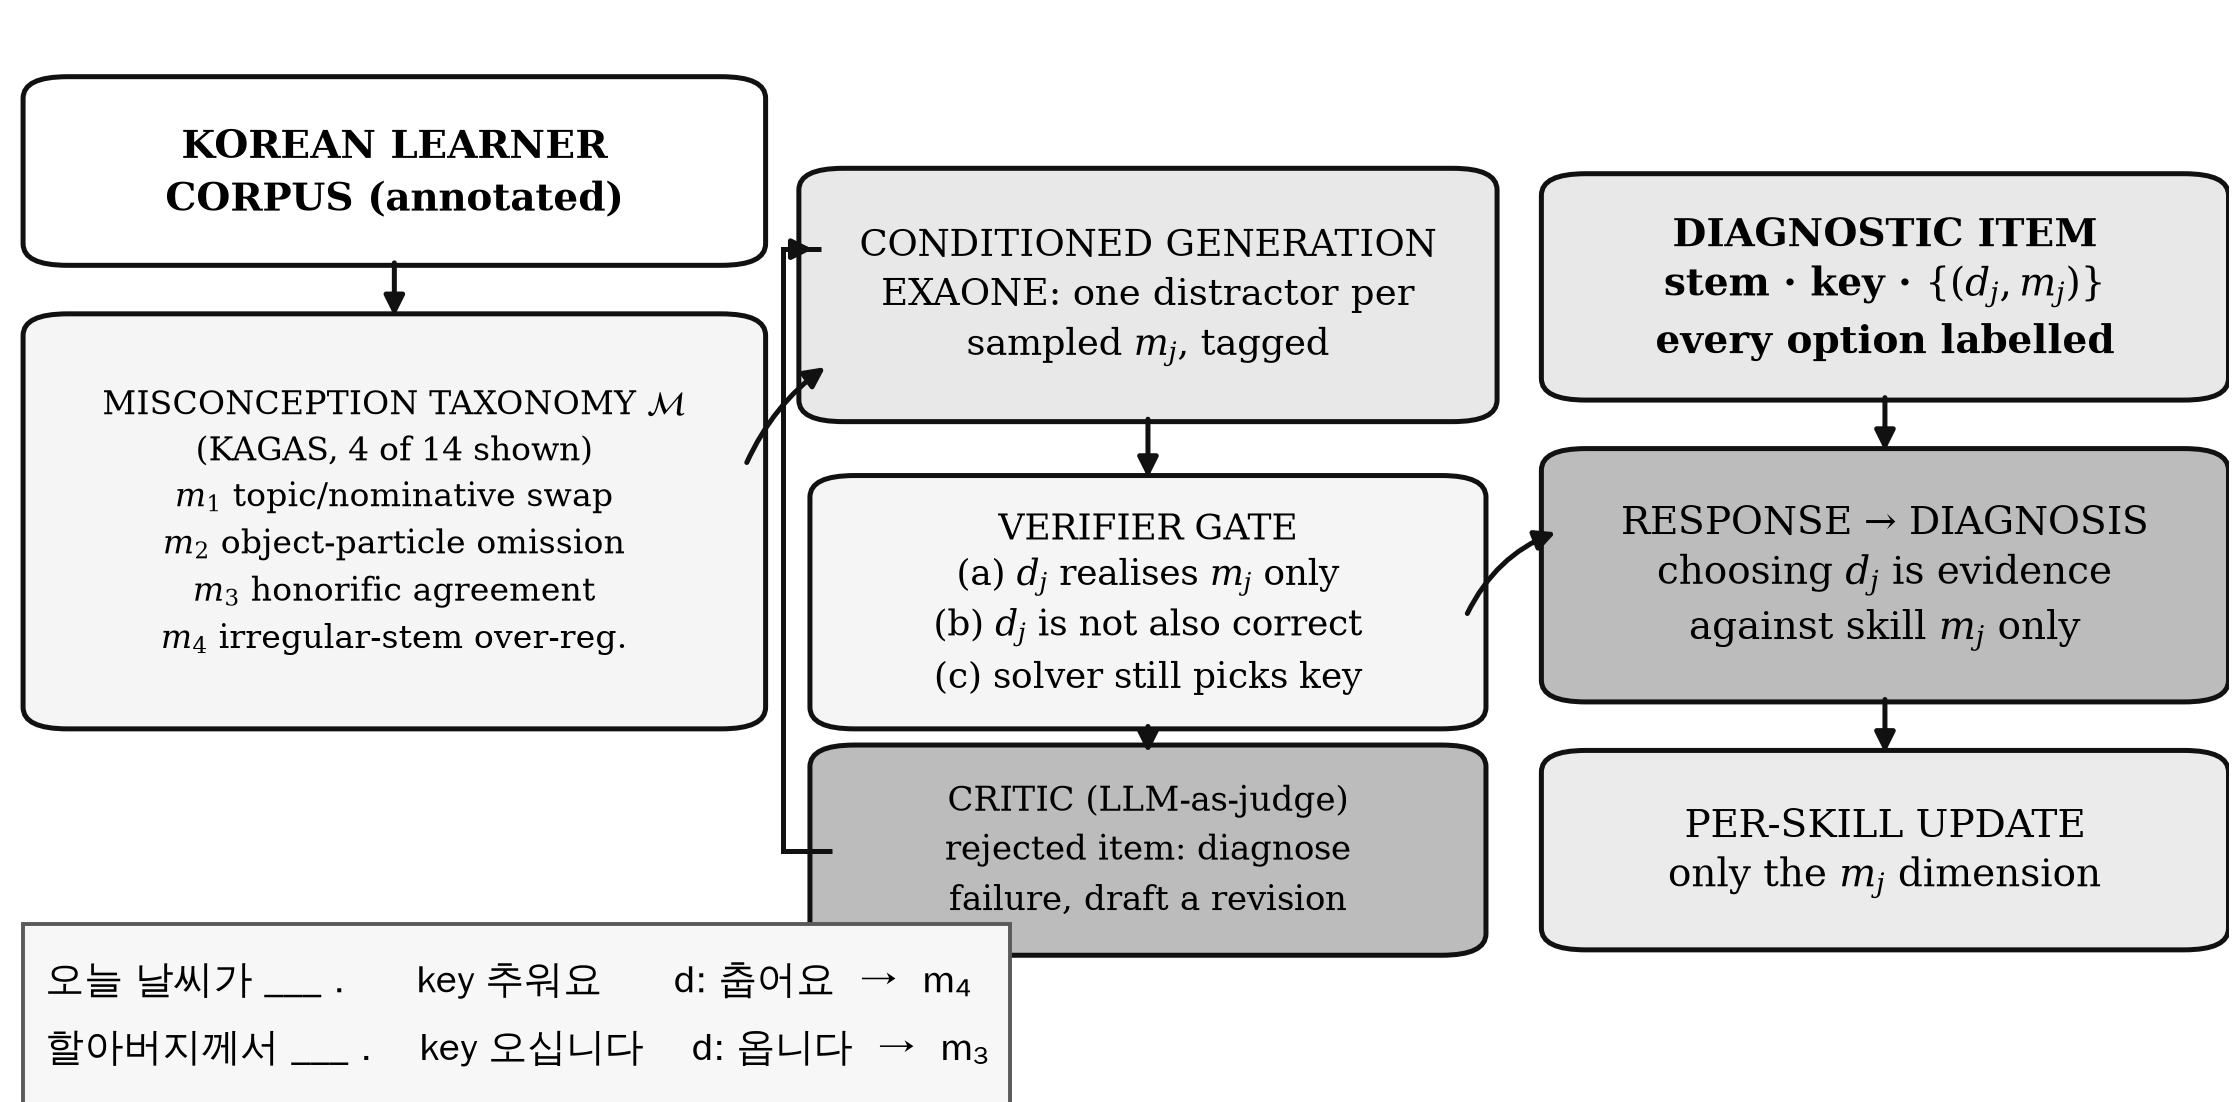
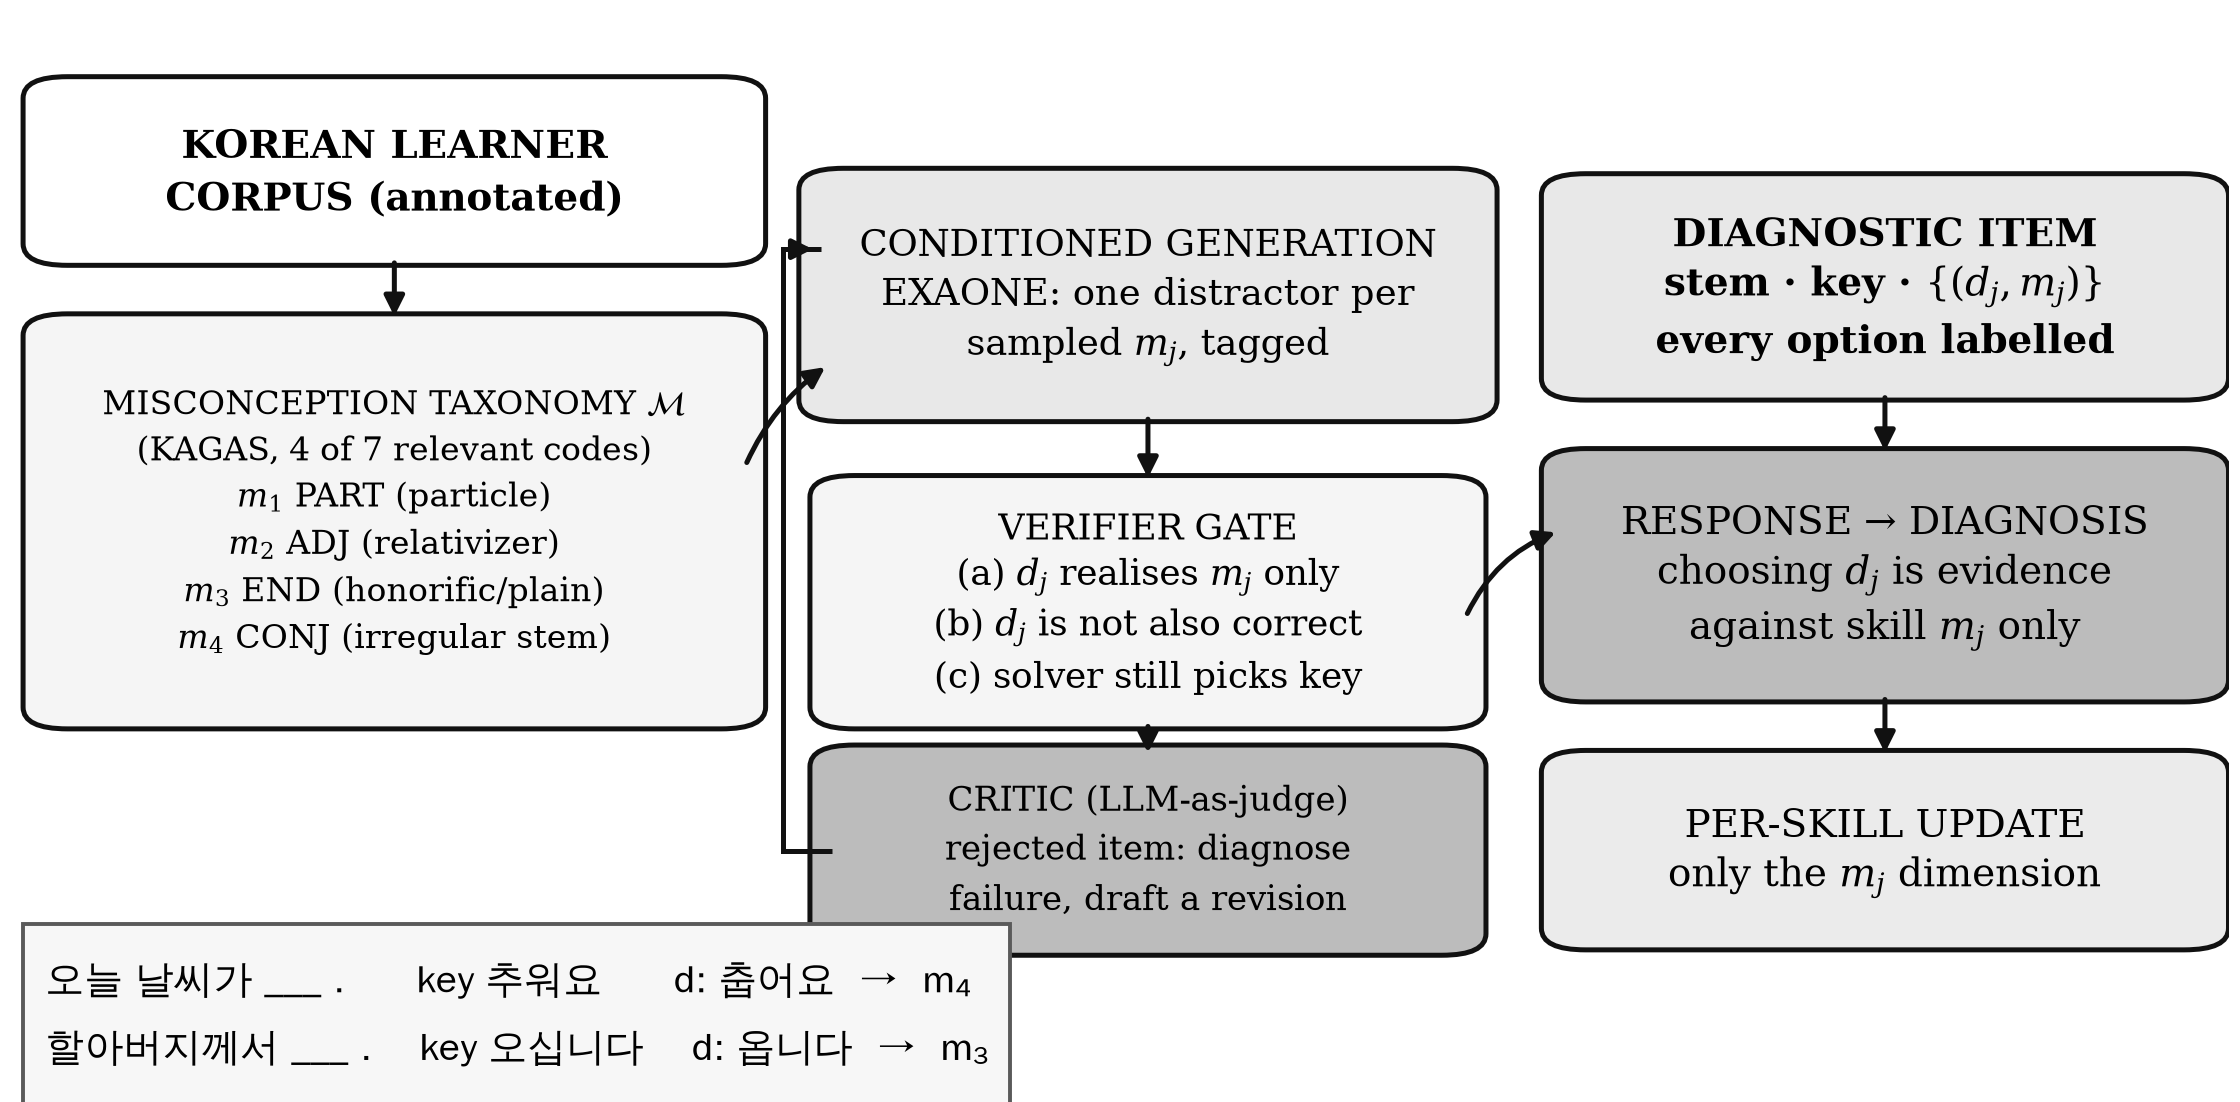
Fix Fig. 3 caption: use real KAGAS codes, not invented labels
PRD §9.8 flagged this months ago (same session, found while resolving
the KAGAS taxonomy lookup) but never actually fixed it: Fig. 3's
misconception-taxonomy box listed "m1 topic/nominative swap", "m2
object-particle omission", "m3 honorific agreement", "m4 irregular-stem
over-reg." as if these were real KAGAS category names, captioned "KAGAS,
4 of 14 shown". None of those four labels exist in the actual ACL 2023
KAGAS paper (Table 3) -- they were invented and misattributed.

Replaced with the real codes this project's own 8 implemented skills
already use and verified against the primary source (§9.8-§9.11): PART
(particle), ADJ (relativizer), END (honorific/plain ending), CONJ
(irregular stem) -- and corrected "4 of 14" to "4 of 7 relevant codes"
per §9.8's finding that only 7 of the 14 KAGAS codes are POS-class
codes usable as drill-quiz skill categories (the other 7 are corpus-
annotation edit-operation codes). The two illustrated examples below
the box (추워요/춥어요 -> CONJ, 오십니다/옵니다 -> END) already matched this
mapping, so only the box's own 4-line list needed changing.

Rebuilt figures/fig3_distractors.png; make_figures.py's own text-fit
check ("All boxes fit") confirms the new (shorter) labels don't overflow.

Changed region(s): [[0.0625, 0.3702, 0.2812, 0.5862]]

diff --git a/src/make_figures.py b/src/make_figures.py
@@ -92,9 +92,9 @@ def fig3():
     B = lambda *a, **k: box(fig, ax, *a, **k)
     B(.015, .775, .315, .155, "KOREAN LEARNER\nCORPUS (annotated)", F_EXT, 7.0, True)
     B(.015, .345, .315, .365,
-      "MISCONCEPTION TAXONOMY $\\mathcal{M}$\n(KAGAS, 4 of 14 shown)\n"
-      "$m_1$ topic/nominative swap\n$m_2$ object-particle omission\n"
-      "$m_3$ honorific agreement\n$m_4$ irregular-stem over-reg.", F_VER, 6.0)
+      "MISCONCEPTION TAXONOMY $\\mathcal{M}$\n(KAGAS, 4 of 7 relevant codes)\n"
+      "$m_1$ PART (particle)\n$m_2$ ADJ (relativizer)\n"
+      "$m_3$ END (honorific/plain)\n$m_4$ CONJ (irregular stem)", F_VER, 6.0)
     arrow(ax, (.1725, .775), (.1725, .710))
 
     B(.365, .630, .295, .215,
